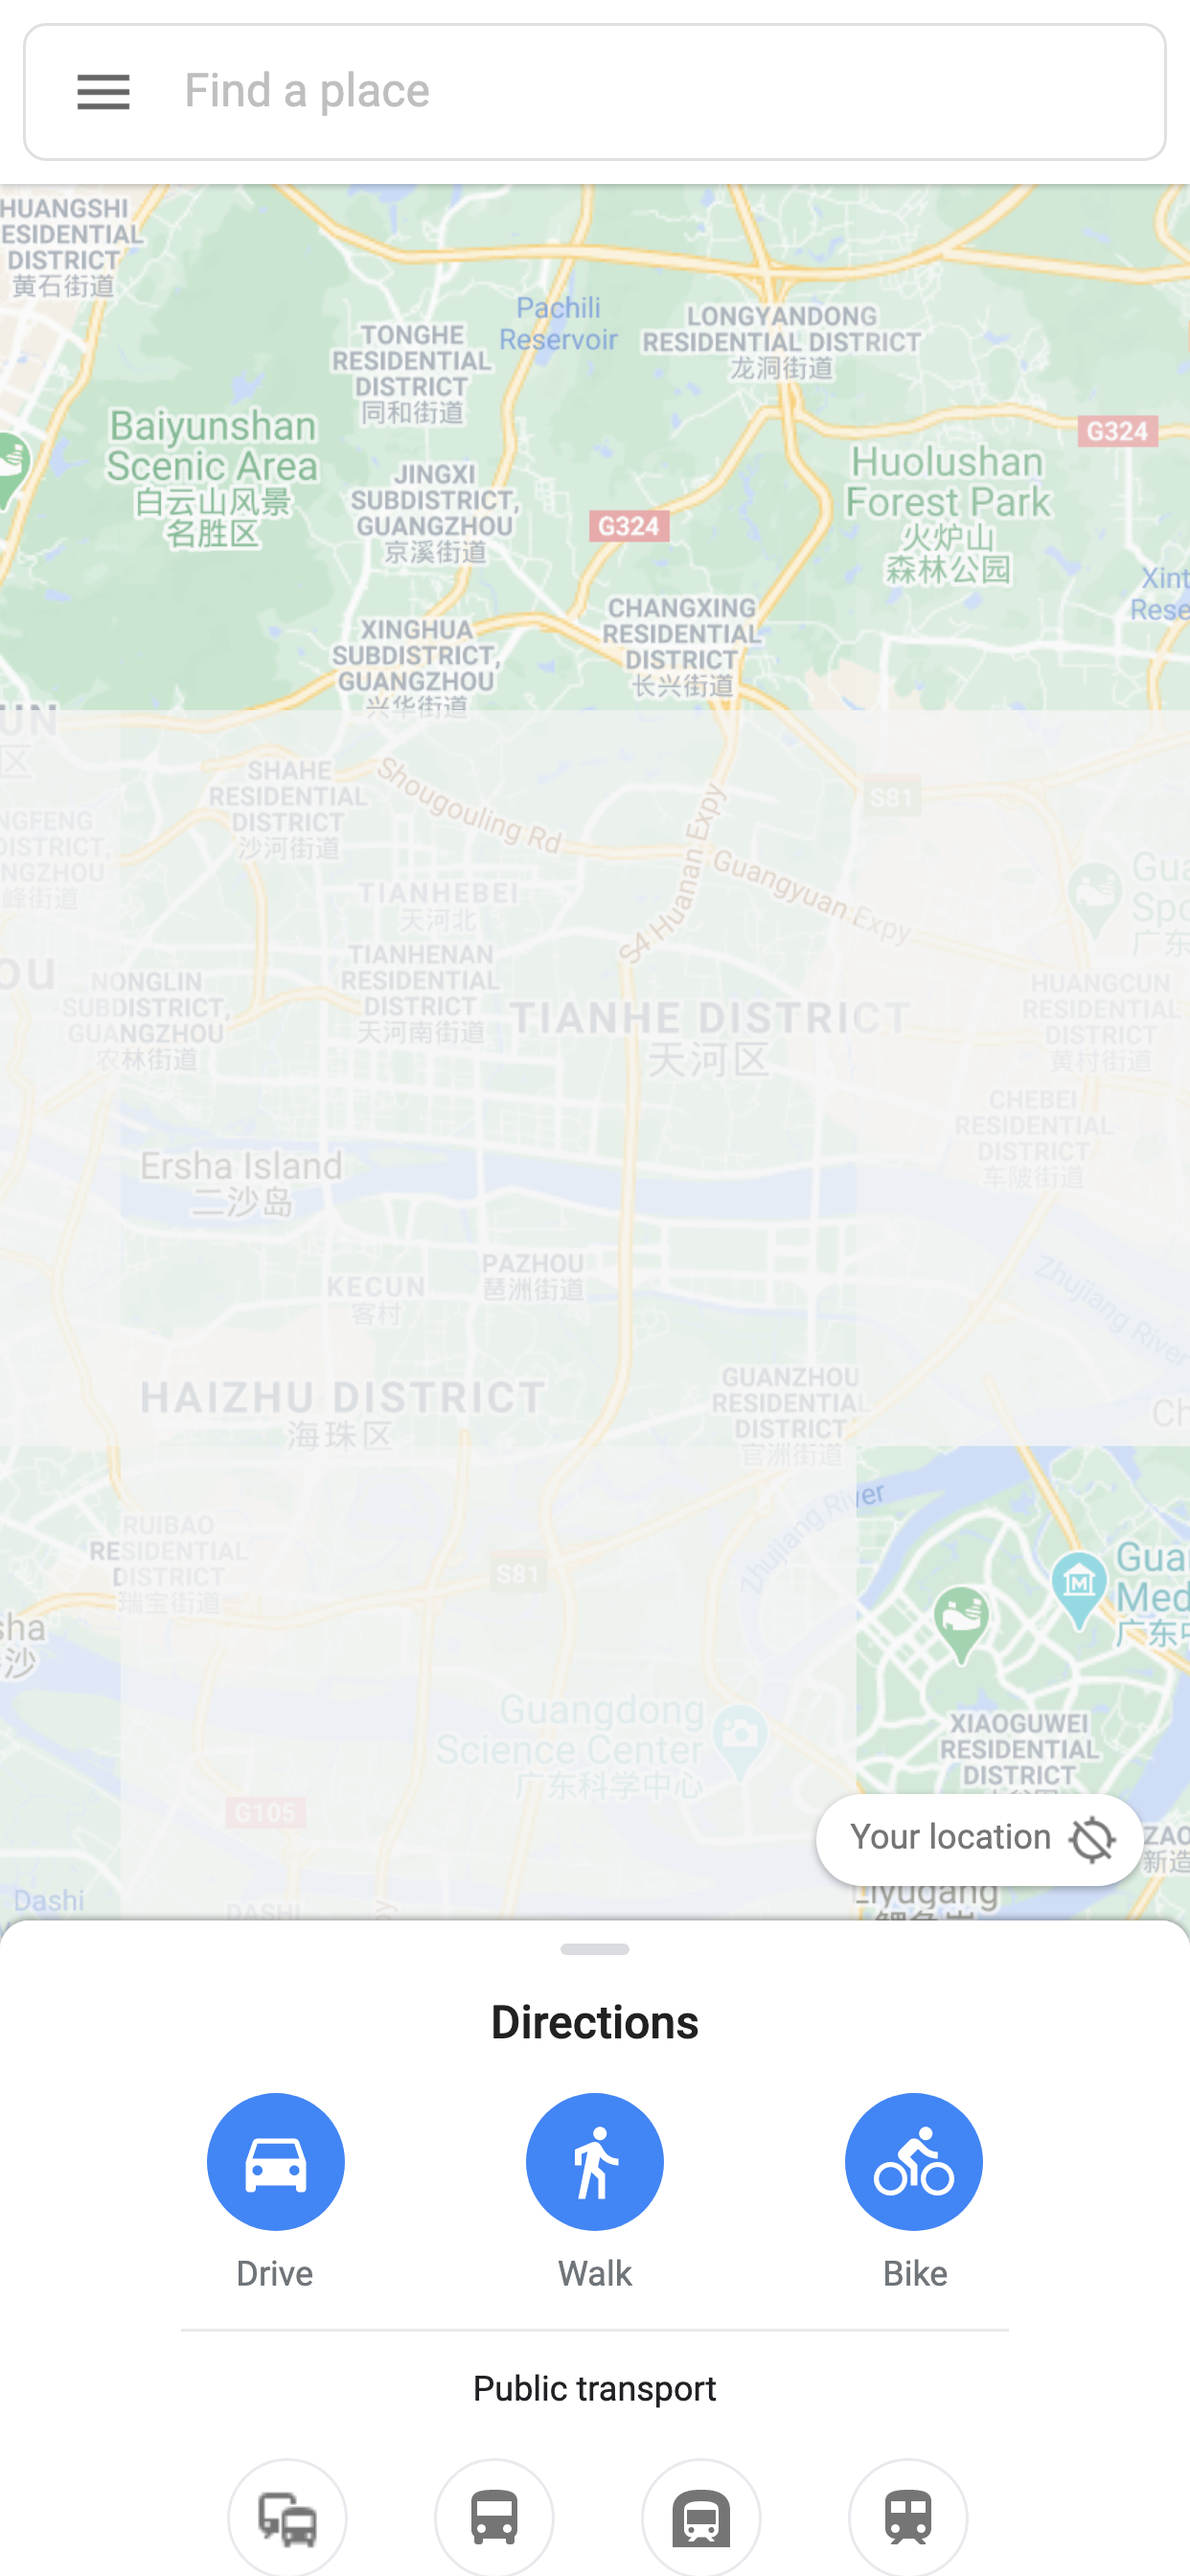
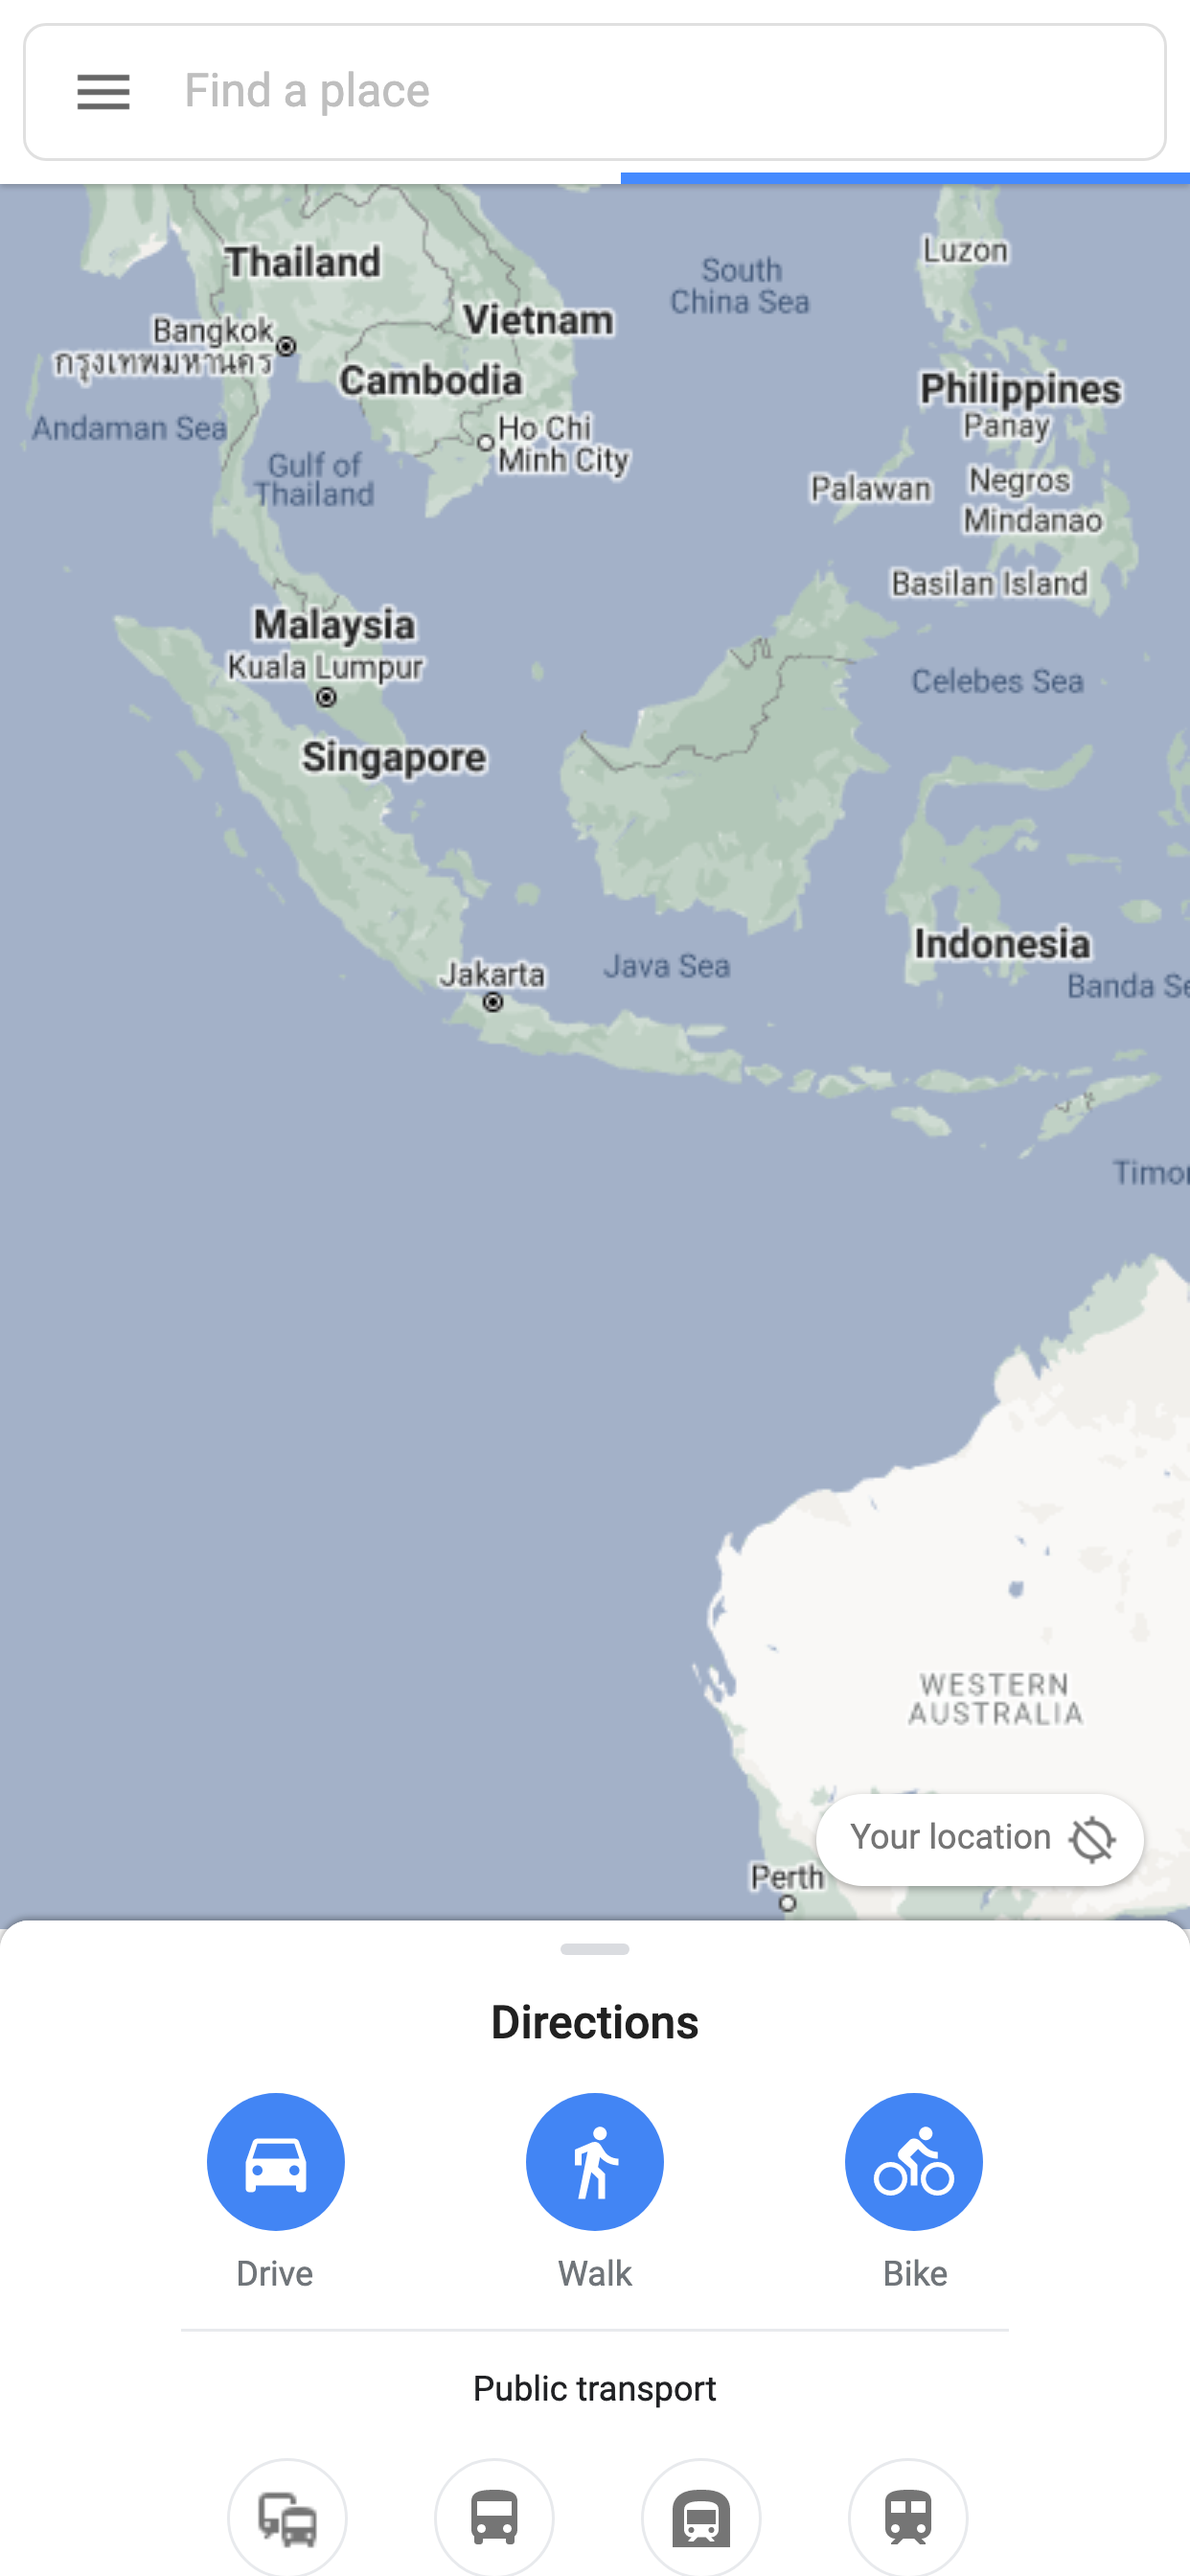
feat: Emulation - Geolocation

diff --git a/index.ts b/index.ts
@@ -3,49 +3,75 @@ import { Browser, BrowserType, devices, chromium, firefox, webkit } from 'playwr
 import { PNG } from 'pngjs';
 import * as pixelmatch from 'pixelmatch';
 
-async function screenshot(browserType: BrowserType<Browser>) {
+async function screenshot(browserType: BrowserType<Browser>): Promise<string> {
   // use `browserType` from arguments instead of hardcode
   const browser = await browserType.launch();
   // simulate browser behavior on a mobile device
-  const iphone = devices["iPhone 11 Pro Max"]
+  const iphone = devices['iPhone X'];
   const context = await browser.newContext({
     ...iphone,
-    // geolocation: { longitude: 103.2193726, latitude: 34.0548255 },
-    // permissions: ['geolocation']
+    geolocation: {
+      longitude: 103.2199128,
+      latitude: 34.0556586,
+    },
+    permissions: ['geolocation'],
   });
   // open web page
   const page = await context.newPage();
   await page.goto('https://www.google.com/maps');
-  await page.waitForNavigation();
+  // https://www.google.com/maps/@-7.3281874,109.9076899,5z
+
+  // await page.waitForNavigation();
+  await page.waitForSelector('.ml-promotion-nonlu-blocking-promo');
   // click STAY ON WEB
-  await page.click('button.ml-promotion-action-button');
+  await page.click('button.ml-promotion-action-button.ml-promotion-no-button');
+  // wait for more than 300 millisecond for browser to response with the events
+  await page.waitForTimeout(400);
+  // await page.waitForSelector('.ml-promotion-nonlu-blocking-promo.ml-promotion-off-screen')
+  // click `your location` to navi to current location
+  await page.click('button.ml-button-my-location-fab');
+  // As I can not find any event which means relocat finished,
+  // so we need to wait for some seconds for Google Maps to load resources
+  await page.waitForTimeout(1000);
+  
+  // click and fill in search target
+  await page.click('div.ml-searchbox-button-textarea');
+  await page.waitForSelector('#ml-searchboxinput');
+  await page.fill('#ml-searchboxinput', 'Zhagana');
+
   // take screenshot
-  await page.screenshot({ path: `out/map-${browserType.name()}.png` });
+  const outputPath = `out/map-${browserType.name()}.png`;
+  await page.screenshot({ path: outputPath });
   await browser.close();
+  return outputPath;
 }
 
-// async function diff() {
-//   const mapChromium = PNG.sync.read(fs.readFileSync('out/map-chromium.png'))
-//   const mapWebkit = PNG.sync.read(fs.readFileSync('out/map-webkit.png'))
-//   const { width, height } = mapChromium;
-//   const diffImg = new PNG({ width, height });
-//   pixelmatch(
-//     mapChromium.data,
-//     mapWebkit.data,
-//     diffImg.data,
-//     width,
-//     height,
-//     { threshold: 0.1 }
-//   );
-//   fs.writeFileSync('out/map-diff.png', PNG.sync.write(diffImg));
-// }
+async function diff(fileA: string, fileB: string) {
+  // read the 2 different PNG file
+  const mapChromium = PNG.sync.read(fs.readFileSync(fileA));
+  const mapWebkit = PNG.sync.read(fs.readFileSync(fileB));
+  // init the diff image buffer
+  const { width, height } = mapChromium;
+  const diffImg = new PNG({ width, height });
+  // pixel diff
+  pixelmatch(
+    mapChromium.data,
+    mapWebkit.data,
+    diffImg.data,
+    width,
+    height,
+    { threshold: 0.1 }
+  );
+  // print out the diff image
+  fs.writeFileSync('out/map-diff.png', PNG.sync.write(diffImg));
+}
 
 (async () => {
   // firefox does not support mobile
   const BROWSER_TYPES = [
     chromium,
     // firefox,
-    webkit
+    // webkit
   ]
   // make screenshot all together
   await Promise.all(BROWSER_TYPES.map((browserType) => {

diff --git a/README.md b/README.md
@@ -128,7 +128,7 @@ async function screenshot(browserType: BrowserType<Browser>) {
   // use `browserType` from arguments instead of hardcode
   const browser = await browserType.launch();
   // simulate browser behavior on a mobile device
-  const iphone = devices["iPhone 11 Pro Max"]
+  const iphone = devices['iPhone X'];
   const context = await browser.newContext({ ...iphone });
   // open web page
   const page = await context.newPage();
@@ -167,29 +167,138 @@ await page.waitForNavigation();
 await page.screenshot({ path: `out/map-${browserType.name()}.png` });
 ```
 
-Oops... Another blocker comes up: Google Maps want us to download App but we just want to **STAY ON WEB**.
+But, wait... there is a blocker comes up: Google Maps want us to download App but we just want to **STAY ON WEB**.
 
 ![webkit](resources/map-webkit-1.jpg)
 
-### Mouse Click
+### Input - Mouse Click
 
-So let's click the **STAY ON WEB** button on the page! From devtools we can get the selector of this button: `.ml-promotion-action-button`, use `page.click()` to trigger the click event:
+From devtools we can get the selector of this promo: `.ml-promotion-nonlu-blocking-promo`, use `page.waitForSelector()` instead of `page.waitForNavigation()` to catch the promotion:
 
-<!-- TODO: devtools scree -->
+![Devtools - Pop](resource/devtools-map-pop.png)
 
 ```ts
 await page.goto('https://www.google.com/maps');
-await page.waitForNavigation();
+await page.waitForSelector('.ml-promotion-nonlu-blocking-promo');
+```
+
+So let's click the **STAY ON WEB** button on the page! From devtools we can also get the selector of this button: `button.ml-promotion-action-button.ml-promotion-no-button`, use `page.click()` to trigger the click event:
+
+![Devtools - Button](resources/devtools-map-pop-button.png)
+
+```ts
 // click STAY ON WEB
-await page.click('button.ml-promotion-action-button');
+await page.click('button.ml-promotion-action-button.ml-promotion-no-button');
+```
+
+As the invisible animation last for 0.3s, we need to wait for more than 300ms after button clicked, before we capture the screenshot.
+
+![Devtools - Pop off](resources/devtools-map-pop-off.png)
+
+```ts
+// wait for more than 300 millisecond for browser to response with the events
+await page.waitForTimeout(400);
 await page.screenshot({ path: `out/map-${browserType.name
 ```
 
 ### Emulation - Geolocation
 
-reate a context with "geolocation" permissions granted:
+Now we have the map in our current location (may be base on IP address) but we also have the ability to simulate to a different place. We can "fly" to town _Tewo_ by
+reating a context with "geolocation" permissions granted:
 
+```ts
+const context = await browser.newContext({
+  ...iphone,
+  geolocation: {
+      longitude: 103.2199128,
+      latitude: 34.0556586,
+  },
+  permissions: ['geolocation'],
+});
+```
 
+If you don't konw the longitude and latitude of your "perfect place", just search it in Google Maps then you can get it from the browser URL.
+
+![search-location](resources/devtools-map-search-location.png)
+
+Click the **Your Location** button to navigate to our emulated geolocation.
+
+![Your Location](resources/devtools-map-your-location.png)
+
+```ts
+// click `your location` to navi to current location
+await page.click('button.ml-button-my-location-fab');
+// As I can not find any event which means relocat finished,
+// so we need to wait for some seconds for Google Maps to load resources
+await page.waitForTimeout(500);
+```
+
+Re-run our project we will find us located in _Tewo Post Bureau_.
+
+![Tewo](resources/map-chromium-tewo.png)
+
+### Input - Text Input
+
+After these simulations, we can start to control the page with more playwright APIs, just like what we click the page just now.
+
+First, fill in the search bar with our target place, like _Zhagana_.
+
+![Devtools - Click search box](resources/devtools-map-search-click.png)
+
+![Devtools - Search box input](resources/devtools-map-search-input.png)
+
+```ts
+await page.click()
+await page.fill('#TODO', 'Zhagana');
+```
+
+Second, click the Search button.
+
+```ts
+await page.click('TODO');
+```
+
+Third, click **Navigate** and google will provide us the navigation route.
+
+```ts
+await page.click('TODO');
+```
+
+Put them all together, with output path string as a result.
+
+```ts
+// TODO: all screenshot code...
+```
+
+<!-- TODO: 2 screenshot -->
+
+### Image Diff
+
+The 2 screenshots look exactly the same, so we can use some tools to check. [Pixelmatch](https://github.com/mapbox/pixelmatch) is a simple and fast JavaScript pixel-level image comparison library. Create a function to compare two file A and B.
+
+```ts
+async function diff(fileA: string, fileB: string) {
+  // read the 2 different PNG file
+  const mapChromium = PNG.sync.read(fs.readFileSync(fileA));
+  const mapWebkit = PNG.sync.read(fs.readFileSync(fileB));
+  // init the diff image buffer
+  const { width, height } = mapChromium;
+  const diffImg = new PNG({ width, height });
+  // pixel diff
+  pixelmatch(
+    mapChromium.data,
+    mapWebkit.data,
+    diffImg.data,
+    width,
+    height,
+    { threshold: 0.1 }
+  );
+  // print out the diff image
+  fs.writeFileSync('out/map-diff.png', PNG.sync.write(diffImg));
+}
+```
+
+<!-- TODO: diff image -->
 
 ## Postscript
 
